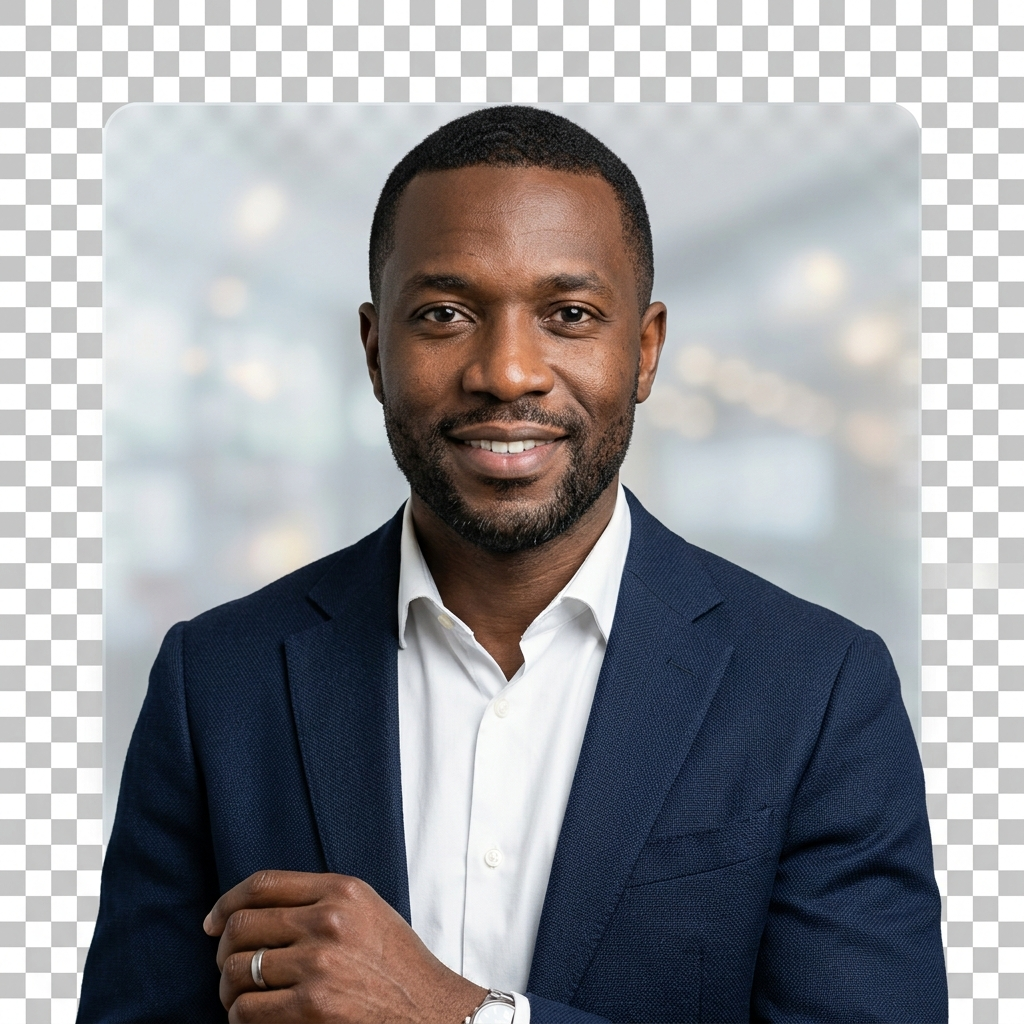
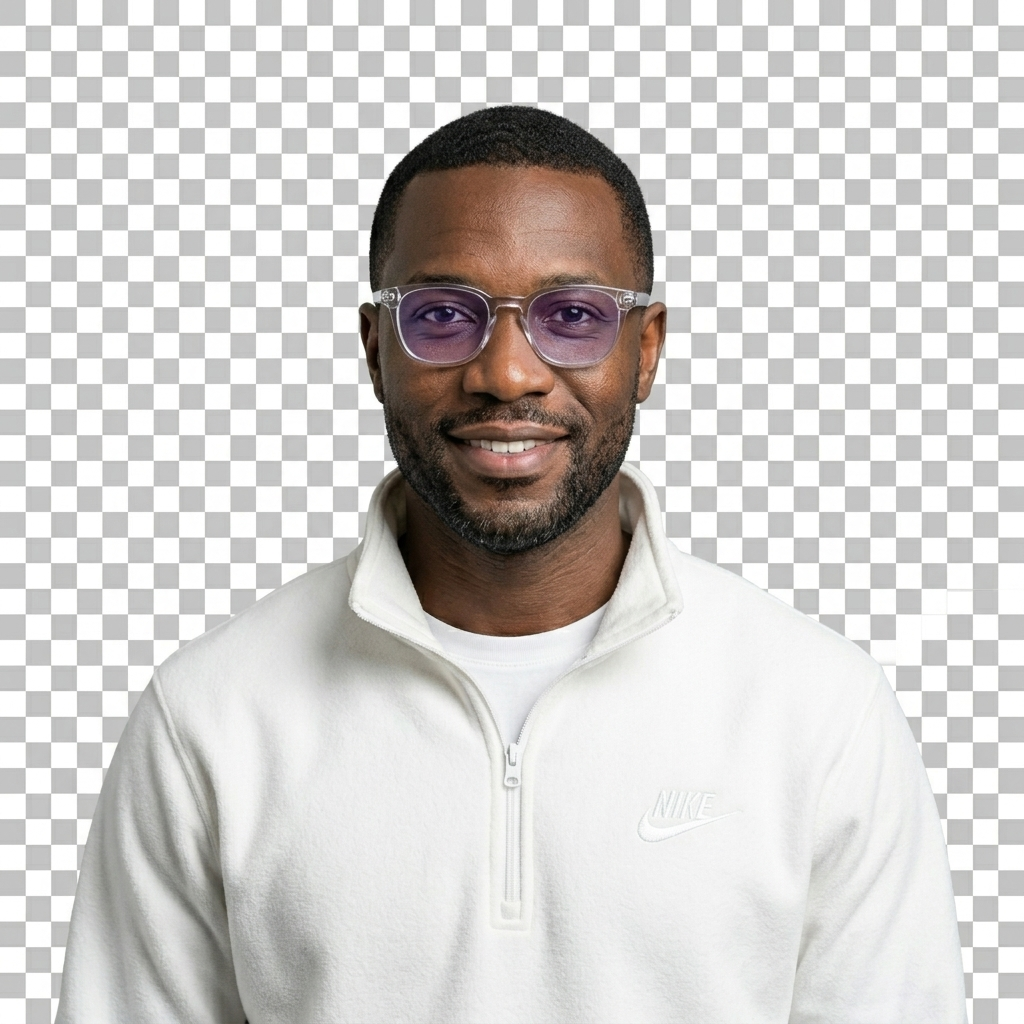
feat: replace portrait with real photo + upgrade image CSS (gradient border, glow, cinematic hover)

diff --git a/style.css b/style.css
@@ -285,23 +285,59 @@ ul {
 
 .image-wrapper {
     position: relative;
-    width: 400px;
-    height: 500px;
-    border-radius: 20px;
-    overflow: hidden;
-    box-shadow: 0 30px 60px rgba(0, 82, 255, 0.15);
+    width: 420px;
+    height: 520px;
+    border-radius: 30px;
     z-index: 2;
+    /* Animated gradient border */
+    padding: 3px;
+    background: linear-gradient(135deg, var(--primary-light), var(--primary-dark), #a855f7, var(--primary));
+    background-size: 300% 300%;
+    animation: borderRotate 6s linear infinite;
+    box-shadow:
+        0 0 40px rgba(0, 82, 255, 0.25),
+        0 30px 80px rgba(0, 82, 255, 0.15),
+        inset 0 0 20px rgba(255,255,255,0.05);
+}
+
+.image-wrapper::before {
+    content: '';
+    position: absolute;
+    inset: -2px;
+    border-radius: 32px;
+    background: linear-gradient(135deg, rgba(0,82,255,0.3), rgba(168,85,247,0.3));
+    filter: blur(20px);
+    z-index: -1;
+    animation: borderRotate 6s linear infinite reverse;
+}
+
+.image-inner {
+    width: 100%;
+    height: 100%;
+    border-radius: 28px;
+    overflow: hidden;
+    background: linear-gradient(180deg, #0a1628 0%, #0f1f40 60%, #0052FF22 100%);
+    position: relative;
+}
+
+@keyframes borderRotate {
+    0%   { background-position: 0% 50%; }
+    50%  { background-position: 100% 50%; }
+    100% { background-position: 0% 50%; }
 }
 
 .profile-img {
     width: 100%;
     height: 100%;
     object-fit: cover;
-    transition: transform 0.7s ease;
+    object-position: top center;
+    transition: transform 0.8s cubic-bezier(0.25, 1, 0.5, 1);
+    filter: drop-shadow(0 20px 40px rgba(0, 82, 255, 0.4));
+    display: block;
 }
 
 .image-wrapper:hover .profile-img {
-    transform: scale(1.05);
+    transform: scale(1.04) translateY(-6px);
 }
 
 /* Blobs for cinematic effect */
@@ -666,7 +702,7 @@ footer {
 
     .image-wrapper {
         width: 100%;
-        max-width: 350px;
+        max-width: 320px;
         height: 400px;
     }
 

diff --git a/index.html b/index.html
@@ -44,8 +44,9 @@
                 <div class="blob blob-1"></div>
                 <div class="blob blob-2"></div>
                 <div class="image-wrapper">
-                    <!-- The generated image will go here -->
-                    <img src="./joseph_dieme_portrait.png" alt="Joseph Elie Dieme Portrait" class="profile-img" id="profile-picture">
+                    <div class="image-inner">
+                        <img src="./joseph_dieme_portrait.png" alt="Joseph Elie Dieme Portrait" class="profile-img" id="profile-picture">
+                    </div>
                 </div>
             </div>
         </section>